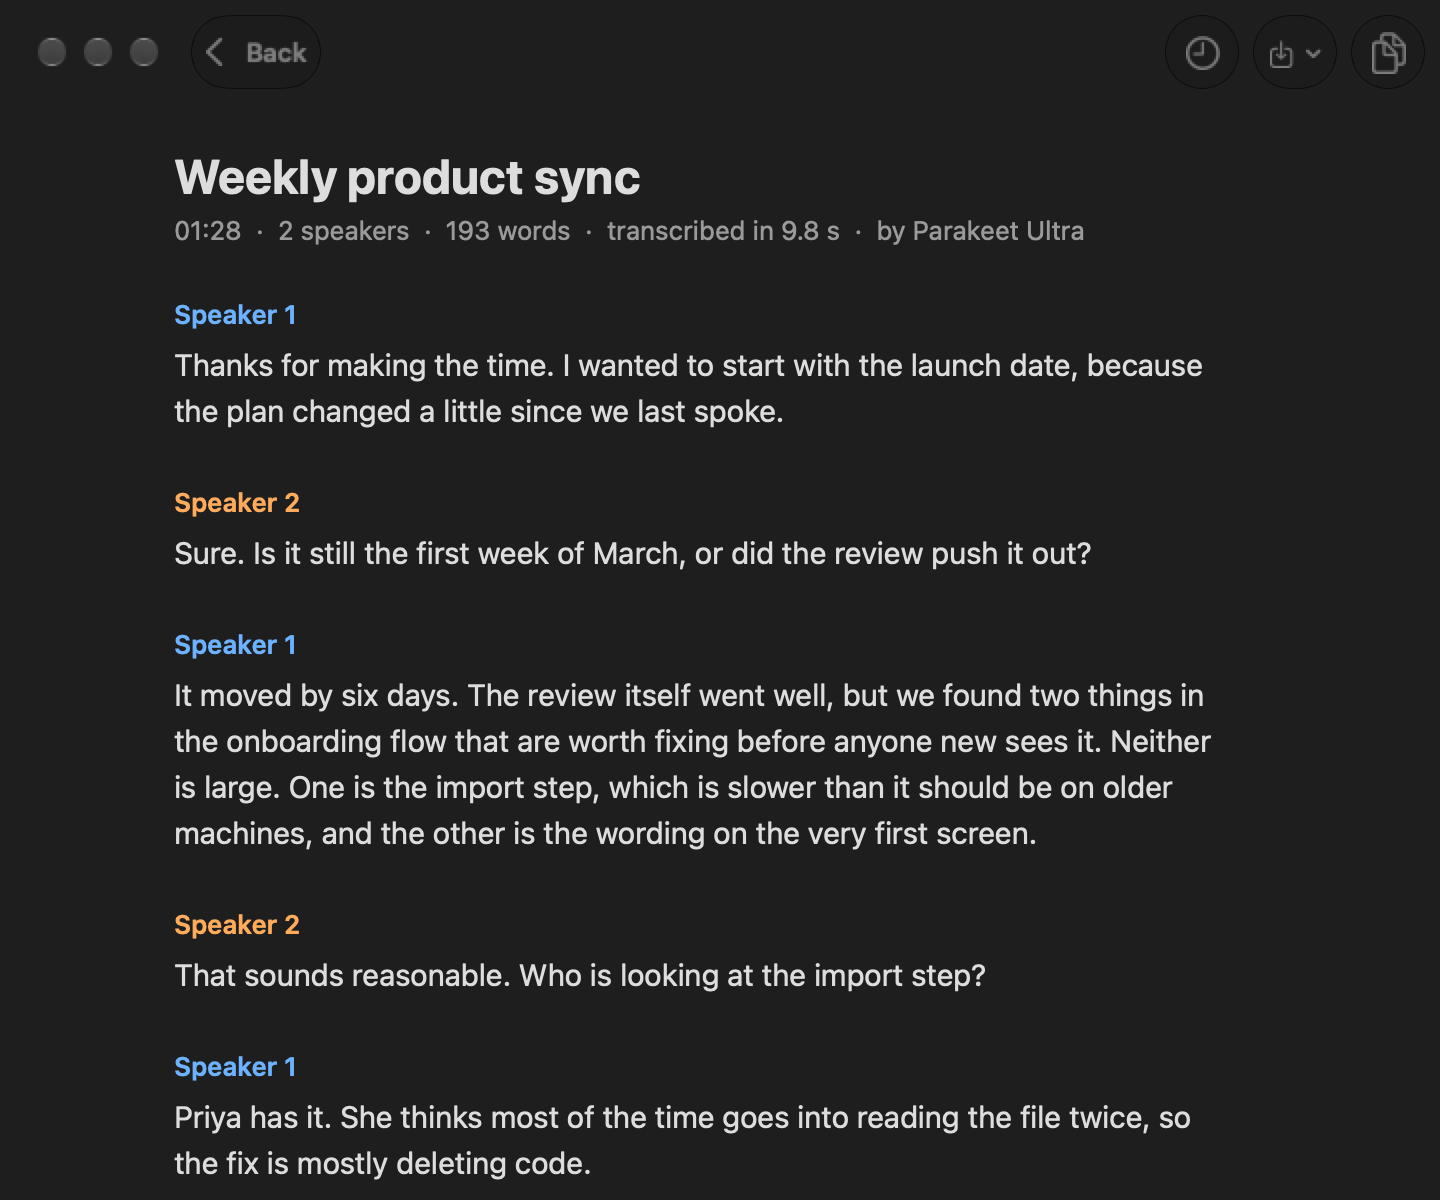
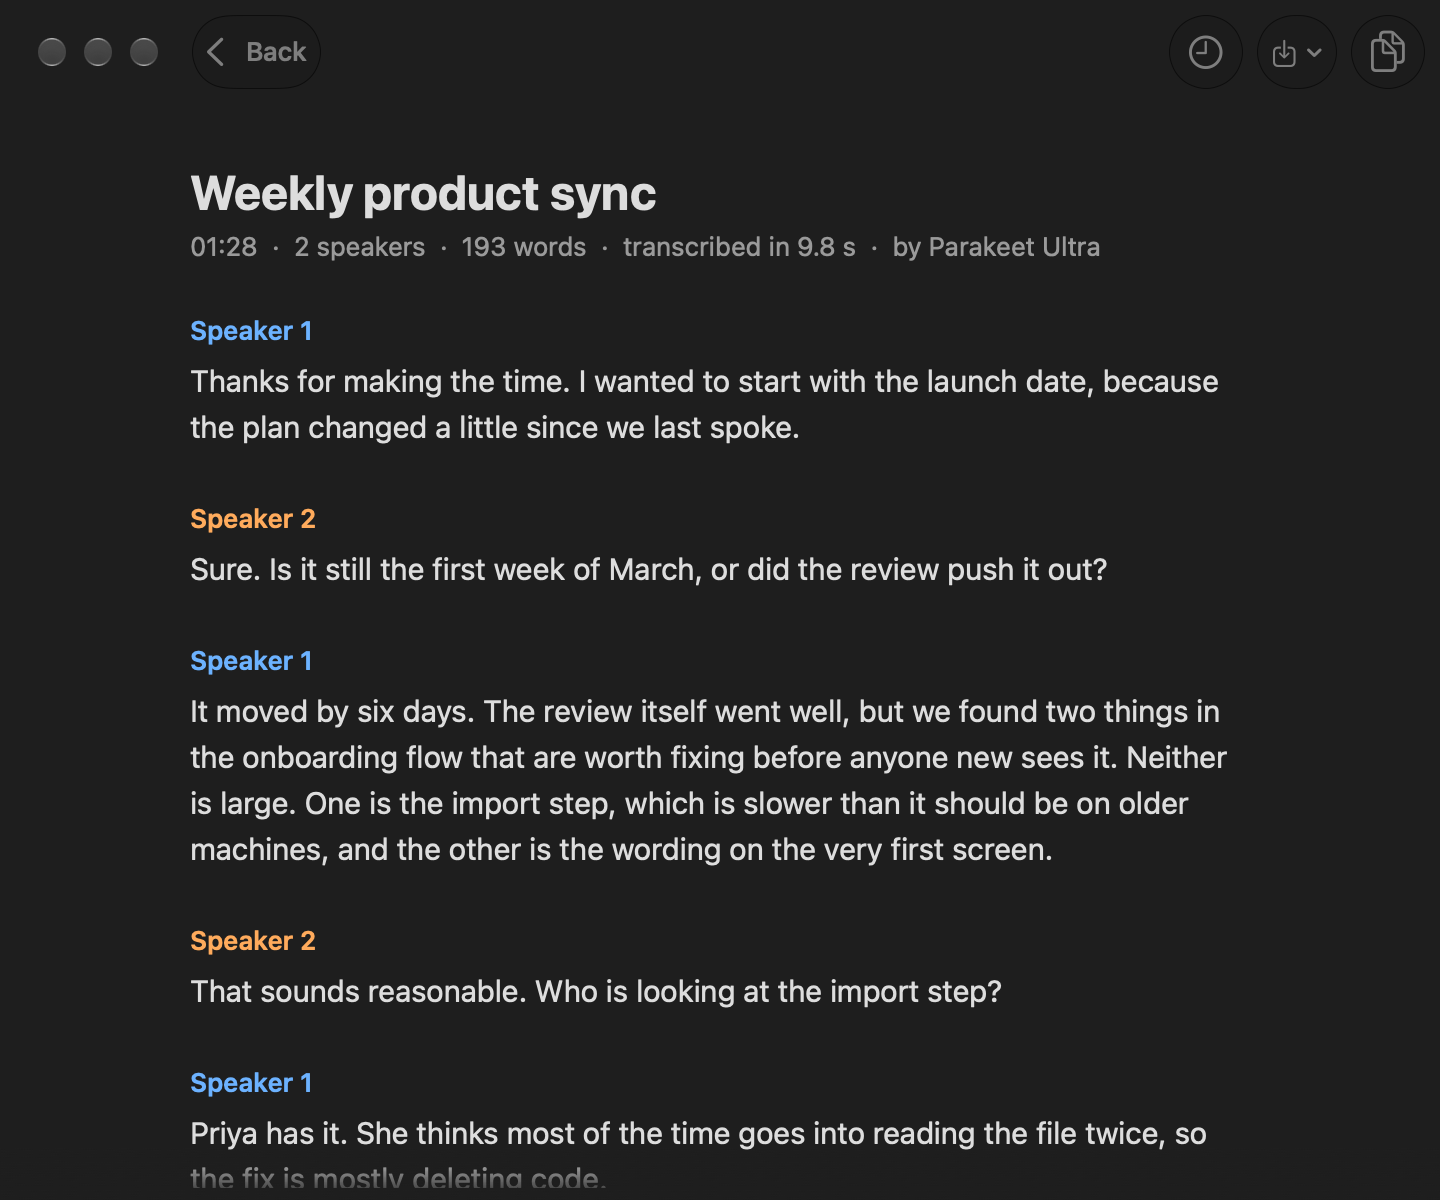
Polish scrolling screens: fade content under the toolbar
Transcripts and the queue no longer run under the Back button and
toolbar: the page colour is laid over the top strip and fades out, with
a matching fade at the foot of the window. Scroll bars start below the
toolbar. Small buttons match the capsule shape of the rest.

diff --git a/Sources/Scribe/Views.swift b/Sources/Scribe/Views.swift
@@ -8,6 +8,14 @@ struct RootView: View {
 
     private var swap: AnyTransition { reduceMotion ? .opacity : AnyTransition(.blurReplace) }
 
+    /// The screens whose content scrolls beneath the toolbar.
+    private var scrolls: Bool {
+        switch model.phase {
+        case .result, .batch: true
+        default: false
+        }
+    }
+
     var body: some View {
         ZStack {
             switch model.phase {
@@ -27,6 +35,28 @@ struct RootView: View {
                     .transition(.opacity)
             case .failed(let message, let command):
                 FailureView(model: model, message: message, command: command).transition(swap)
+            }
+        }
+        .overlay(alignment: .top) {
+            // Scrolling screens: text slides under the toolbar, so the page colour is laid over the top
+            // strip, solid behind the buttons and fading out below them. Nothing is blurred.
+            if scrolls {
+                Rectangle()
+                    .fill(Color(nsColor: .textBackgroundColor))
+                    .mask(LinearGradient(stops: [.init(color: .black, location: 0), .init(color: .black, location: 0.74), .init(color: .clear, location: 1)], startPoint: .top, endPoint: .bottom))
+                    .frame(height: 70)
+                    .ignoresSafeArea(.container, edges: .top)
+                    .allowsHitTesting(false)
+                    .transition(.opacity)
+            }
+        }
+        .overlay(alignment: .bottom) {
+            // The same at the foot of the window, so the last line fades out instead of being cut by the edge.
+            if scrolls {
+                LinearGradient(colors: [Color(nsColor: .textBackgroundColor).opacity(0), Color(nsColor: .textBackgroundColor)], startPoint: .top, endPoint: .bottom)
+                    .frame(height: 26)
+                    .allowsHitTesting(false)
+                    .transition(.opacity)
             }
         }
         .frame(minWidth: 480, maxWidth: .infinity, minHeight: 380, maxHeight: .infinity)
@@ -633,9 +663,11 @@ struct BatchView: View {
                         Button("Stop") { model.cancel() }
                             .keyboardShortcut(.cancelAction)
                             .controlSize(.small)
+                            .buttonBorderShape(.capsule)
                     } else if model.waitingCount > 0 {
                         Button("Resume") { model.resume() }
                             .controlSize(.small)
+                            .buttonBorderShape(.capsule)
                     }
                 }
                 .padding(.top, 4)
@@ -651,10 +683,11 @@ struct BatchView: View {
             }
             .frame(maxWidth: 560, alignment: .leading)
             .padding(.horizontal, 32)
-            .padding(.top, 64)
-            .padding(.bottom, 32)
+            .padding(.top, 76)
+            .padding(.bottom, 40)
             .frame(maxWidth: .infinity)
         }
+        .contentMargins(.top, 56, for: .scrollIndicators)  // the scroll bar starts below the toolbar, not under its buttons
         .ignoresSafeArea(.container, edges: .top)
     }
 

diff --git a/Sources/Scribe/Snapshot.swift b/Sources/Scribe/Snapshot.swift
@@ -41,6 +41,19 @@ enum Snapshot {
                 $0.showTimes = true
                 $0.pose(.result(sample))
             }),
+            ("14-result-scrolled", CGSize(width: 720, height: 600), { $0.pose(.result(longTranscript())) }),
+            ("15-result-scrolled-narrow", CGSize(width: 480, height: 420), {
+                $0.showTimes = true
+                $0.pose(.result(longTranscript()))
+            }),
+            ("16-batch-scrolled", CGSize(width: 720, height: 420), {
+                var items = (0..<14).map {
+                    Model.Job(id: $0, title: "Episode \($0 + 1): a conversation about building things", input: "https://example.com", seconds: 1500, thumbnail: samplePicture($0))
+                }
+                for i in 0..<9 { items[i].state = .done(words: 4000 + i * 137) }
+                items[9].state = .working
+                $0.pose(jobs: items, title: "The Product Podcast", running: true, percent: 41)
+            }),
             ("11-choose", CGSize(width: 720, height: 600), {
                 let items = (1...143).map {
                     LinkItem(title: "Episode \($0)", url: "https://example.com/\($0)", seconds: 1800, thumbnail: samplePicture($0))
@@ -79,6 +92,20 @@ enum Snapshot {
                 let window = makeWindow(model: model, size: size, dark: dark)
                 settle(0.35)
                 let frame = window.contentView!.superview!
+                if name.contains("scrolled") {
+                    // Part-way down, with the scroll bar showing, to check what happens under the toolbar.
+                    func scrollView(in view: NSView) -> NSScrollView? {
+                        if let s = view as? NSScrollView, s.documentView != nil { return s }
+                        return view.subviews.lazy.compactMap { scrollView(in: $0) }.first
+                    }
+                    if let scroll = scrollView(in: frame) {
+                        scroll.scrollerStyle = .overlay
+                        scroll.contentView.scroll(to: NSPoint(x: 0, y: 230))
+                        scroll.reflectScrolledClipView(scroll.contentView)
+                        scroll.flashScrollers()
+                        settle(0.3)
+                    }
+                }
                 if let data = png(of: frame) {
                     try? data.write(to: folder.appendingPathComponent("\(name)-\(dark ? "dark" : "light").png"))
                 }

diff --git a/Sources/Scribe/App.swift b/Sources/Scribe/App.swift
@@ -120,9 +120,10 @@ final class Model {
         let size = persist ? d.double(forKey: "textSize") : 0
         textSize = size >= 12 && size <= 22 ? size : 15
         let saved = persist ? d.string(forKey: "library") : nil
-        library = saved.map { URL(fileURLWithPath: $0) } ?? Self.defaultLibrary
-        // Automated self-checks never stop to ask.
-        libraryChosen = !persist || saved != nil || ProcessInfo.processInfo.environment["SCRIBE_LIVE_CHECK"] != nil
+        // Automated self-checks never stop to ask, and save inside their own folder, not the user's.
+        let check = ProcessInfo.processInfo.environment["SCRIBE_LIVE_CHECK"]
+        library = check.map { URL(fileURLWithPath: $0).appendingPathComponent("library") } ?? saved.map { URL(fileURLWithPath: $0) } ?? Self.defaultLibrary
+        libraryChosen = !persist || saved != nil || check != nil
     }
 
     private func store(_ value: Any, _ key: String) {

diff --git a/Sources/Scribe/TranscriptView.swift b/Sources/Scribe/TranscriptView.swift
@@ -39,6 +39,7 @@ struct TranscriptView: NSViewRepresentable {
         scroll.documentView = text
         scroll.hasVerticalScroller = true
         scroll.drawsBackground = false
+        scroll.scrollerInsets = NSEdgeInsets(top: 4, left: 0, bottom: 4, right: 0)  // clear of the toolbar's buttons and the window's corner
         return scroll
     }
 
@@ -83,7 +84,7 @@ final class ColumnTextView: NSTextView {
 
     override func setFrameSize(_ newSize: NSSize) {
         super.setFrameSize(newSize)
-        let inset = NSSize(width: max(30, ((newSize.width - columnWidth) / 2).rounded()), height: 22)
+        let inset = NSSize(width: max(30, ((newSize.width - columnWidth) / 2).rounded()), height: 30)
         if textContainerInset != inset { textContainerInset = inset }
     }
 }
